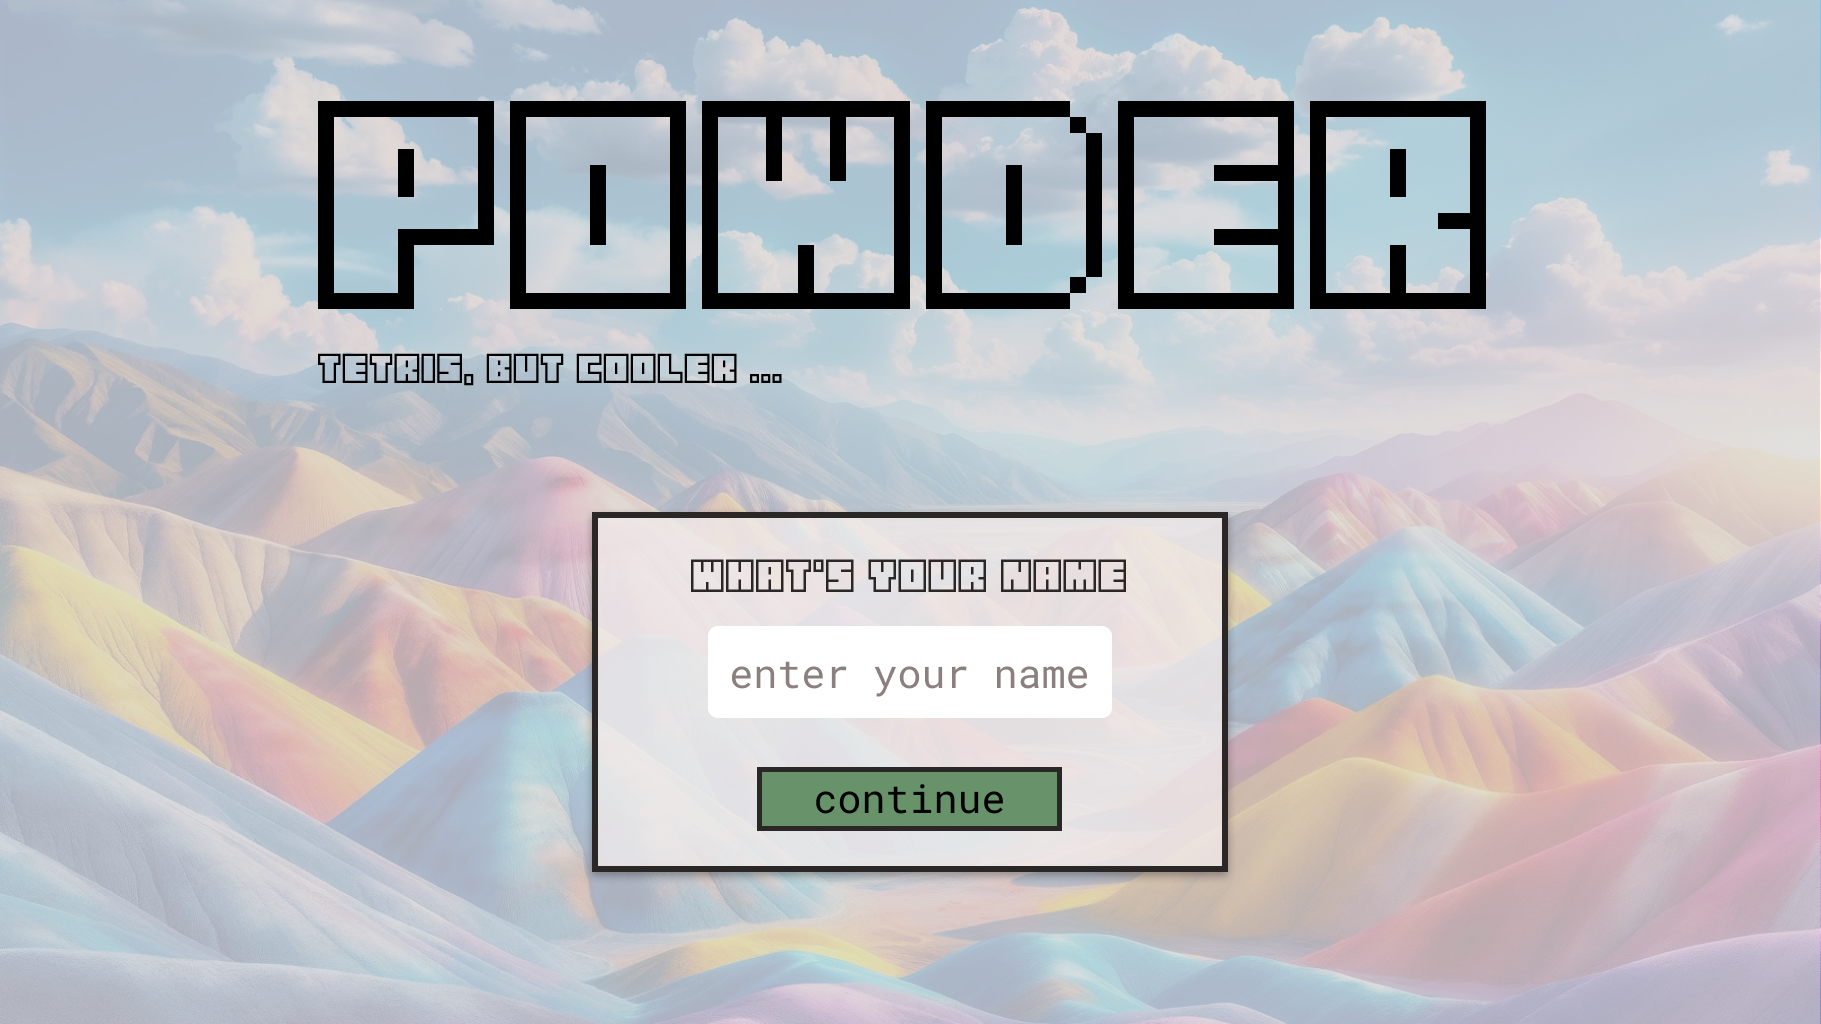
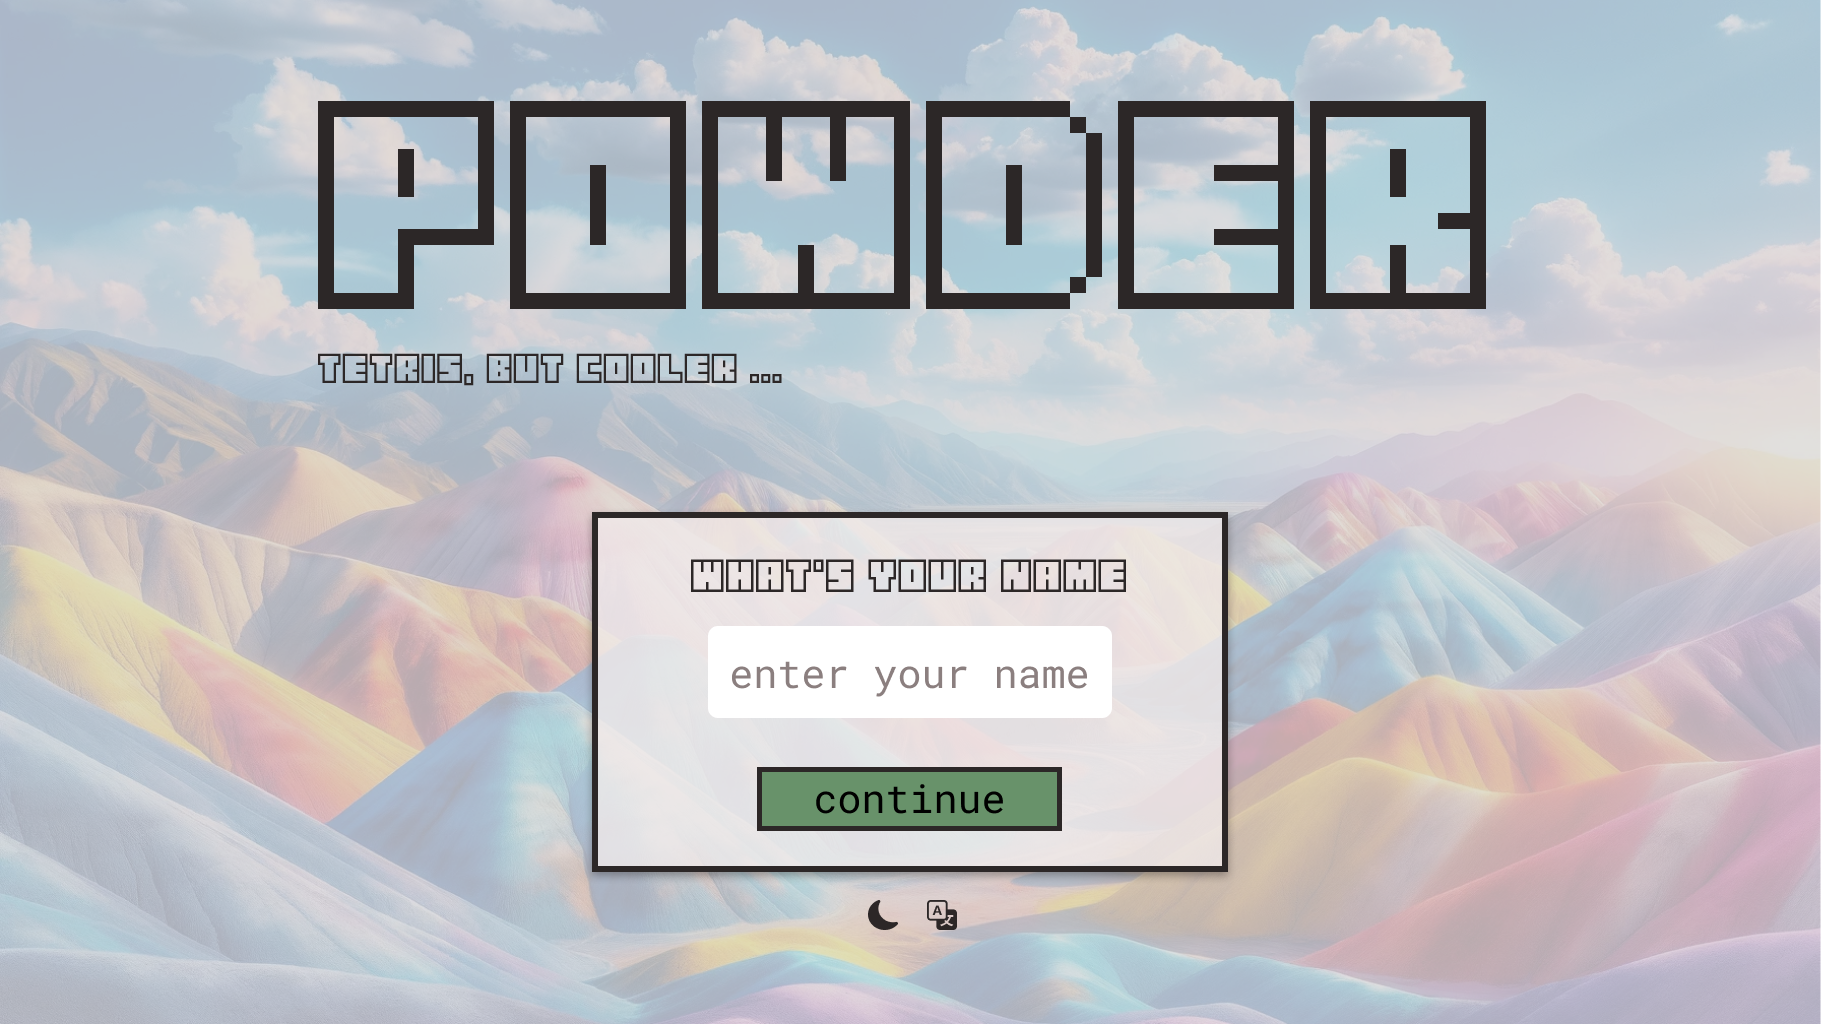
chore: add prototypes

Changed region(s): [[0.1538, 0.0938, 0.8303, 0.3125], [0.1845, 0.3438, 0.4305, 0.375], [0.4613, 0.875, 0.5228, 0.9062]]

diff --git a/.docs/doc.md b/.docs/doc.md
@@ -57,6 +57,10 @@ Repository: [Powder GitLab Repository](https://git.ffhs.ch/web-technologien/fweb
   * [5 Planung](#5-planung)
     * [5.1 Prototypen](#51-prototypen)
       * [5.1.1 Landing Page](#511-landing-page)
+      * [5.1.2 Menü Page](#512-menü-page)
+      * [5.1.3 Game Page: Singleplayer Einfach](#513-game-page-singleplayer-einfach)
+      * [5.1.4 Game Page: Singleplayer Schwer](#514-game-page-singleplayer-schwer)
+      * [5.1.5 Game Page: Multiplayer](#515-game-page-multiplayer)
     * [5.2 Architekturentscheidungen](#52-architekturentscheidungen)
 <!-- TOC -->
 
@@ -1267,6 +1271,22 @@ Backlog", "Development",
 #### 5.1.1 Landing Page
 <img src="./img/prototypes/landing-page-light.png" alt="Light Screen Landing Page" width="50%">
 <img src="./img/prototypes/landing-page-dark.png" alt="Dark Screen Landing Page" width="50%">
+
+#### 5.1.2 Menü Page
+<img src="./img/prototypes/menu-page-light.png" alt="Light Screen Menu Page" width="50%">
+<img src="./img/prototypes/menu-page-dark.png" alt="Dark Screen Menu Page" width="50%">
+
+#### 5.1.3 Game Page: Singleplayer Einfach
+<img src="./img/prototypes/game-page-light-easy.png" alt="Light Screen Easy Game Page" width="50%">
+<img src="./img/prototypes/game-page-dark-easy.png" alt="Dark Screen Easy Game Page" width="50%">
+
+#### 5.1.4 Game Page: Singleplayer Schwer
+<img src="./img/prototypes/game-page-light-hard.png" alt="Light Screen Hard Game Page" width="50%">
+<img src="./img/prototypes/game-page-dark-hard.png" alt="Dark Screen Hard Game Page" width="50%">
+
+#### 5.1.5 Game Page: Multiplayer
+<img src="./img/prototypes/game-page-multiplayer-light.png" alt="Light Screen Multiplayer Game Page" width="50%">
+<img src="./img/prototypes/game-page-multiplayer-dark.png" alt="Dark Screen Multiplayer Game Page" width="50%">
 
 ### 5.2 Architekturentscheidungen
 
